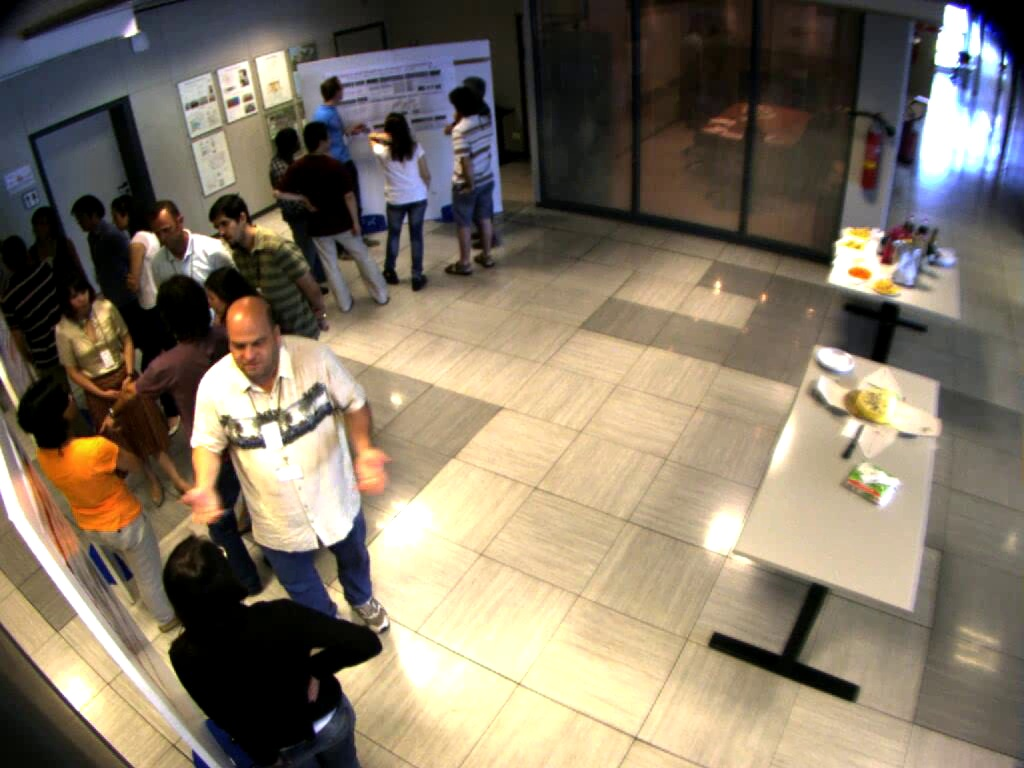
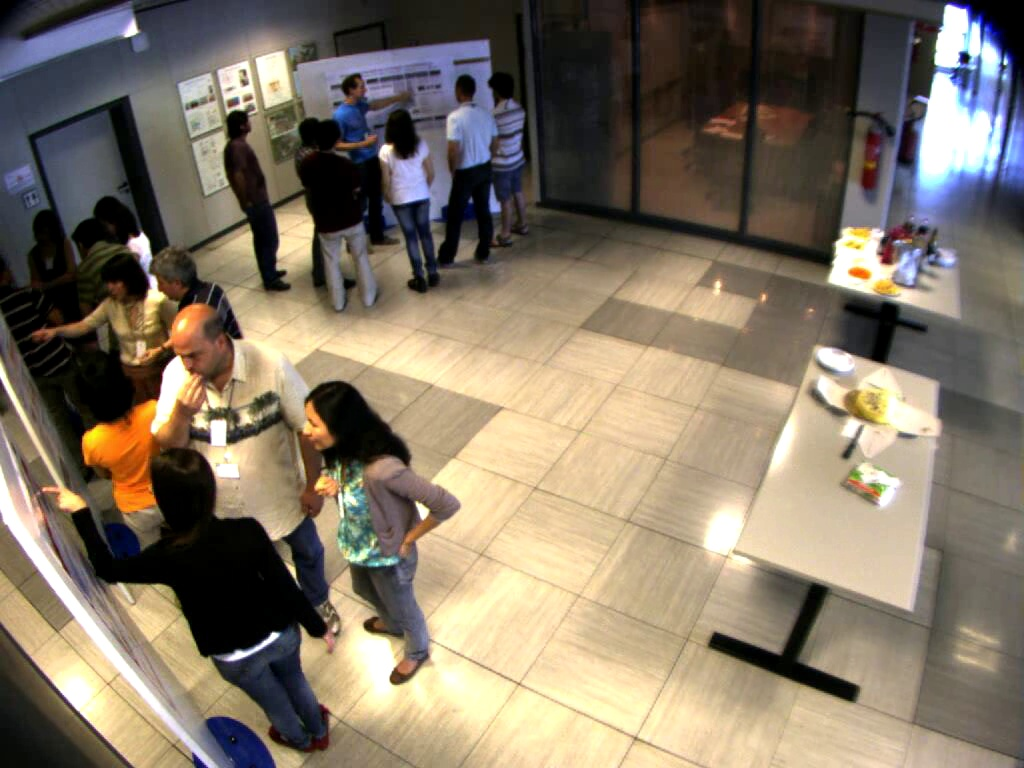
4 image homography

diff --git a/homography/undistort_file.py b/homography/undistort_file.py
@@ -1,0 +1,79 @@
+import cv2 as cv
+import numpy as np
+import argparse
+
+#Getting the input file name, output file name, and calibration file name
+
+parser = argparse.ArgumentParser()
+
+parser.add_argument("input_image_name", type=str, help="name of input image (no need for .jpg)")
+parser.add_argument("output_image_name", type=str, help="name of output image (no need for .jpg)")
+parser.add_argument("calibration_file_name", type=str, help="name of the calibration file (NEEDS EXTENSION .calib)")
+
+args = parser.parse_args()
+
+#Parsing the calibration file
+
+fin = open(args.calibration_file_name)
+
+current_line = ""
+
+while len(current_line) < 2 or current_line[0] != 'f':
+    current_line = fin.readline()
+f = float(current_line[2:])
+
+while len(current_line) < 2 or current_line[:2] != 'mu':
+    current_line = fin.readline()
+mu = float(current_line[3:])
+
+while len(current_line) < 2 or current_line[:2] != 'mv':
+    current_line = fin.readline()
+mv = float(current_line[3:])
+
+while len(current_line) < 2 or current_line[:2] != 'u0':
+    current_line = fin.readline()
+u0 = float(current_line[3:])
+
+while len(current_line) < 2 or current_line[:2] != 'v0':
+    current_line = fin.readline()
+v0 = float(current_line[3:])
+
+while len(current_line) < 2 or current_line[:2] != 'k1':
+    current_line = fin.readline()
+k1 = float(current_line[3:])
+
+while len(current_line) < 2 or current_line[:2] != 'k2':
+    current_line = fin.readline()
+k2 = float(current_line[3:])
+
+while len(current_line) < 2 or current_line[:2] != 'k3':
+    current_line = fin.readline()
+k3 = float(current_line[3:])
+
+while len(current_line) < 2 or current_line[:2] != 'p1':
+    current_line = fin.readline()
+p1 = float(current_line[3:])
+
+while len(current_line) < 2 or current_line[:2] != 'p2':
+    current_line = fin.readline()
+p2 = float(current_line[3:])
+
+img = cv.imread(args.input_image_name + '.jpg')
+
+#Camera matrix consisting of intrinsic camera parameters
+
+camera_matrix = np.array([np.array([mv*f, 0, u0]),
+                np.array([0, mu*f, v0]),
+                np.array([0, 0, 1])])
+
+#Array consisting of distortion parameters
+
+dist_coeffs = np.array([k1, k2, p1, p2])
+
+#Undistorting the image
+
+dst = cv.undistort(img, camera_matrix, dist_coeffs)
+
+#Writing the image
+
+cv.imwrite(args.output_image_name + '.jpg', dst)

diff --git a/homography/stitch.py b/homography/stitch.py
@@ -1,0 +1,12 @@
+import cv2
+import os
+from glob import glob
+import numpy as np
+
+frames = [cv2.imread(f'result{i}.png') for i in range(4)]
+
+frames[1][:580, :630, :] = frames[0][:580, :630, :]
+frames[1][450:, :611, :] = frames[2][450:, :611, :]
+frames[1][260:, :788, :] = frames[3][260:, :788, :]
+
+cv2.imwrite("stitched.png", frames[1])

diff --git a/homography/get_frame.py b/homography/get_frame.py
@@ -7,7 +7,7 @@ vid_num = 1
 cap = cv2.VideoCapture(f"video/salsa_ps_cam{vid_num}.avi")
 total_frames = cap.get(7)
 
-n = 2000
+n = int((8 + 5/60) / (32 + 13/60) * total_frames)
 i = 0
 while cap.isOpened():
     ret, frame = cap.read()
